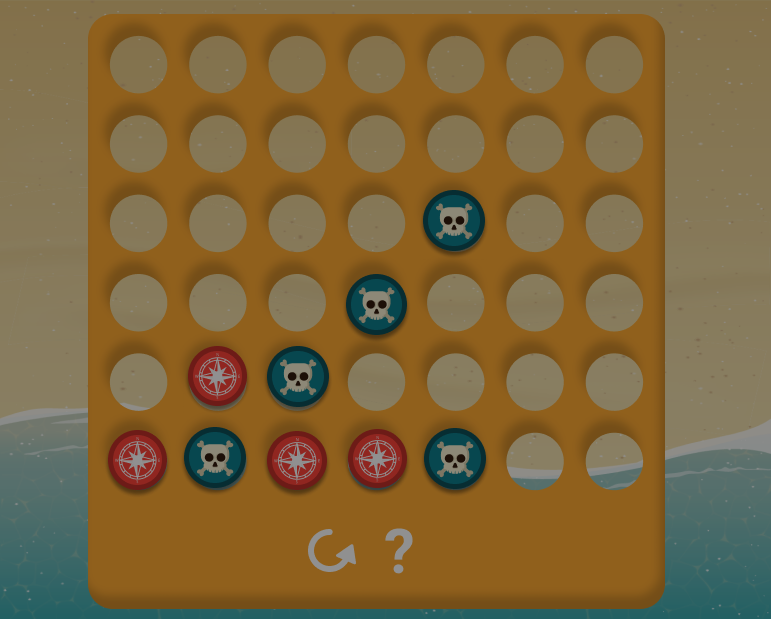
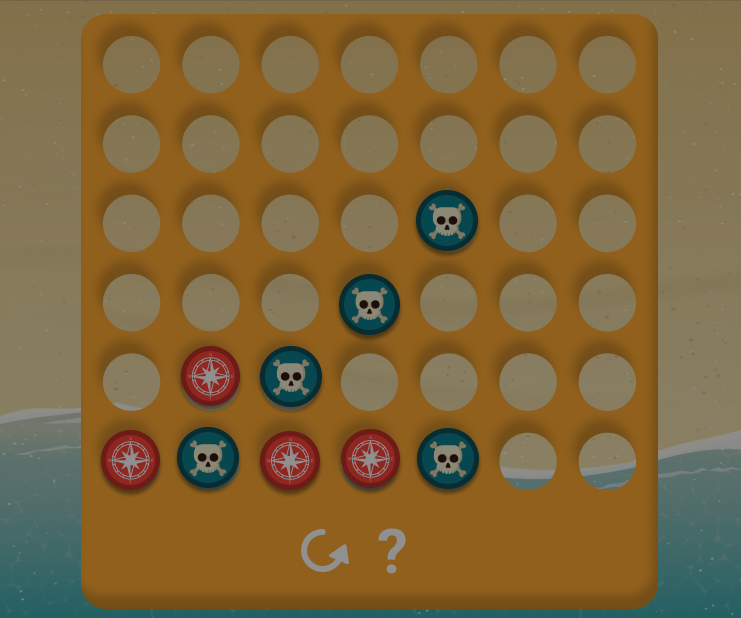
Centre img juego css

diff --git a/TP2/css/style.css b/TP2/css/style.css
@@ -737,6 +737,9 @@ font-size: var(--font-size-s);
 
 /*-----------4 en linea---------*/
 
+.index-juego{
+    background-color: #0D0D0D;
+} 
 
 .juego-4-en-linea{
     background-color: #0D0D0D;
@@ -762,7 +765,7 @@ font-size: var(--font-size-s);
     display: flex;
     flex-direction: row;
     justify-content: center;
-    padding-right:110px;
+    padding-right: 130px;
 }
 
 .juego{
@@ -904,9 +907,7 @@ border-radius: 50px;
 
 }
 /*----GALERIA JUEGO------*/
-.index-juego{
-    background-color: #0D0D0D;
-}
+
 
 .container-juego{
     margin: 0rem 1.5rem 0rem 1.5rem;
